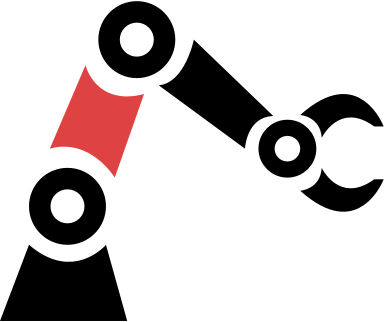
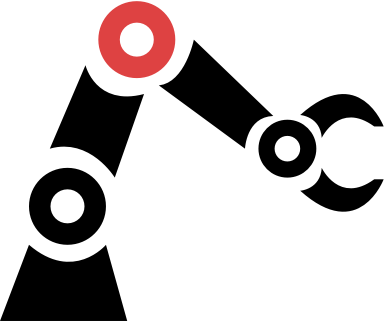
Fixed indexing
Fixed servo indexing so it directly maps to the servos.

Changed region(s): [[0.1247, 0.2174, 0.374, 0.559], [0.2494, 0.0, 0.4675, 0.2484]]

diff --git a/main-controller/templates/control.html b/main-controller/templates/control.html
@@ -24,11 +24,10 @@
                 var socket = io.connect('http://{{ ip }}:5000');
 
                 function update_value (value) {
-                    socket.emit('json' ,{"id":{{ controllerID }}-1, "value":value});
+                    socket.emit('json' ,{"id":{{ controllerID }}, "value":value});
                 };
 
                 $(".control_slider").on("input", function(){
-                    console.log(this.value)
                     update_value(this.value);
                 });
 
@@ -42,7 +41,7 @@
 
 
     <body>
-{% if controllerID >= 1 and controllerID <= 7 %}
+{% if controllerID >= 0 and controllerID <= 6 %}
         
         <header>
             <h1>Controlling: {{ controller_name }}</h1>
@@ -69,7 +68,7 @@
 
 {% else %}
 
-<h1>Sorry, please wait for the next game.</h1>
+<h1>That control point is unavailable.</h1>
 
 {% endif %}
 

diff --git a/main-controller/main.py b/main-controller/main.py
@@ -62,13 +62,13 @@ def root(controllerID=None):
 
 
     controller_name = {
-        1: "Base",
-        2: "Shoulder",
-        3: "Elbow",
-        4: "Wrist Rotation",
-        5: "Wrist",
-        6: "Pincer Rotation",
-        7: "Pincer"
+        0: "Base",
+        1: "Shoulder",
+        2: "Elbow",
+        3: "Wrist Rotation",
+        4: "Wrist",
+        5: "Pincer Rotation",
+        6: "Pincer"
     }
     if (controllerID in controller_name):
         controller_name = str(controller_name[controllerID])
